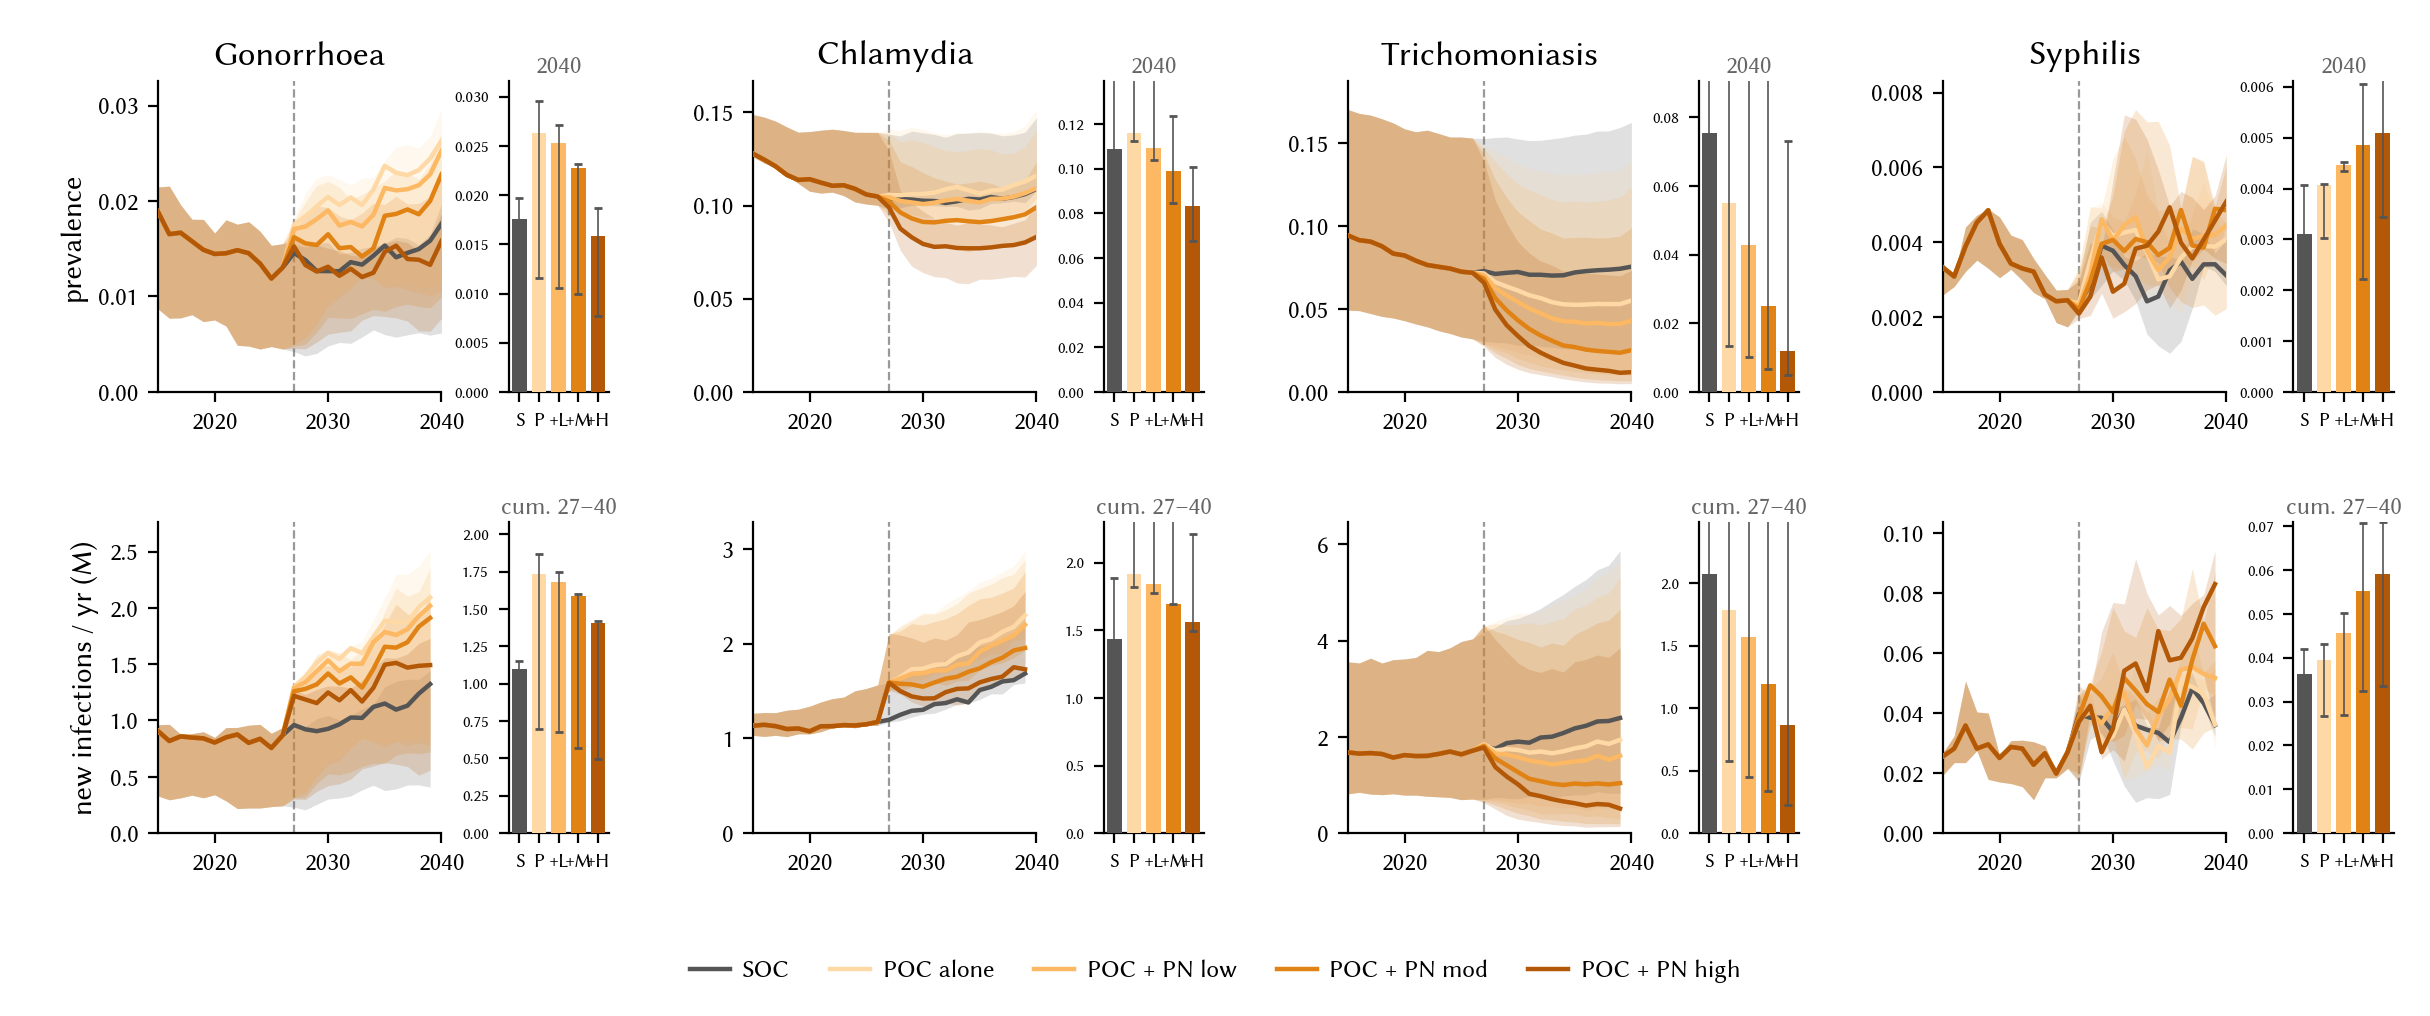
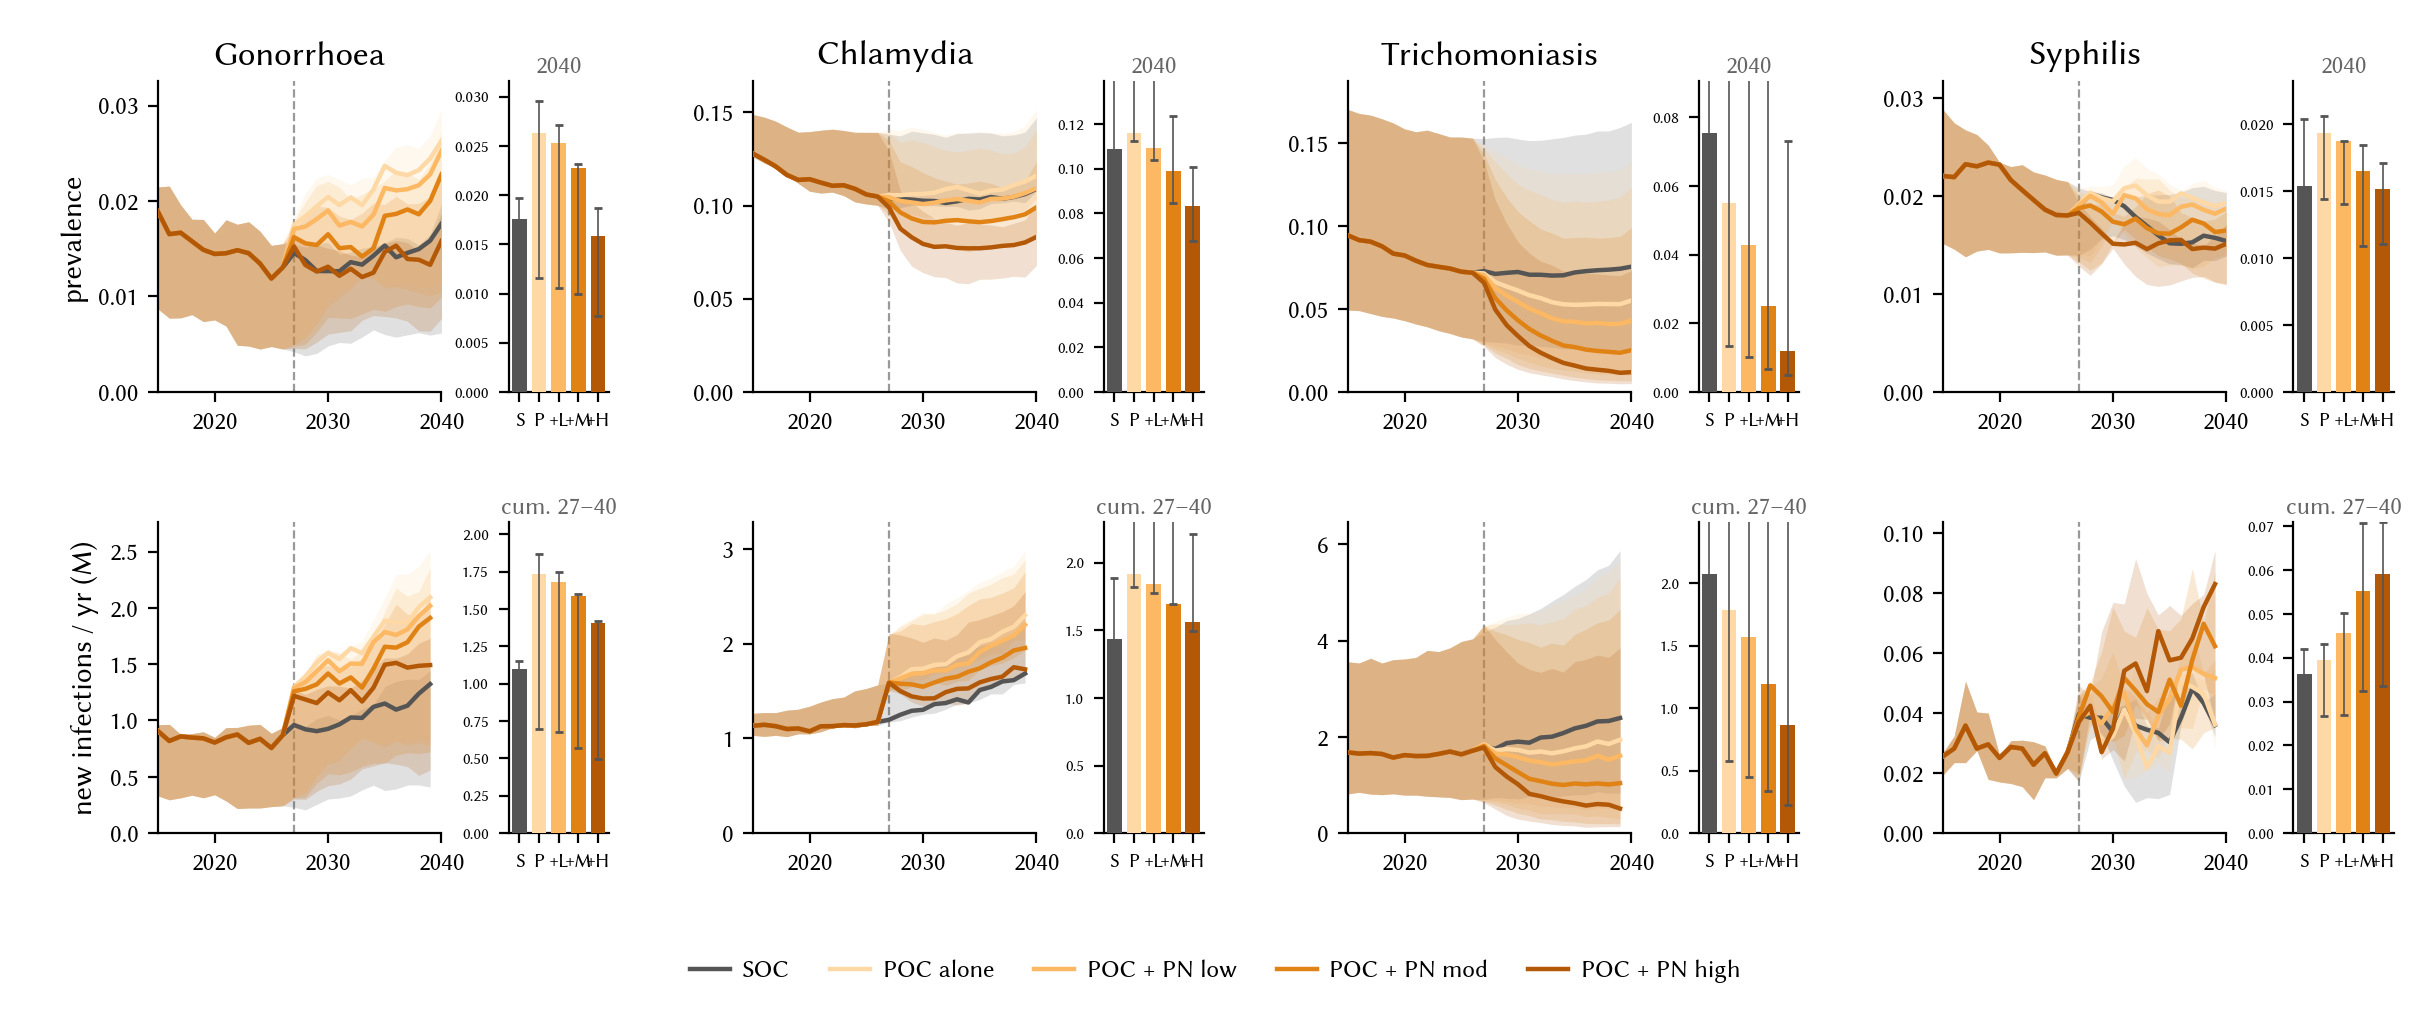
fix: syphilis prevalence panels use total prevalence, not infectious-only slice
plot_slide6.py (and slides 9-11 via build_ts_grid_figure) plotted
sexually_transmissible_prevalence / syph_sti_prev_end for syphilis instead
of raw prevalence, so slide panels showed ~0.2-0.4% while fig_epi_overview
and the calibration target show ~2%. Same override existed in
dashboard/scripts/export_data.py; fixed there too. Regenerated
fig_slide6/9/10/11.png.

diff --git a/plotting/plot_slide6.py b/plotting/plot_slide6.py
@@ -36,13 +36,8 @@ DISEASES = [('ng', 'Gonorrhoea'), ('ct', 'Chlamydia'),
 YEARS = 2040 - 2027
 INTV = 2027
 
-# Syphilis prevalence uses the WHO "early infectious syphilis" slice
-# (primary + secondary + early latent) rather than raw prevalence, since
-# most syphilis infections settle into non-infectious late latency.
 PREV_RESULT_NAME = {d: 'prevalence' for d, _ in DISEASES}
-PREV_RESULT_NAME['syph'] = 'sexually_transmissible_prevalence'
 PREV_COL = {d: f'{d}_prev_end' for d, _ in DISEASES}
-PREV_COL['syph'] = 'syph_sti_prev_end'
 
 
 def med_iqr(vals):

diff --git a/dashboard/scripts/export_data.py b/dashboard/scripts/export_data.py
@@ -17,11 +17,9 @@ from scenarios import (          # noqa: E402
 
 DISEASES = ['ng', 'ct', 'tv', 'syph']
 PREV_COL = {d: f'{d}_prev_end' for d in DISEASES}
-PREV_COL['syph'] = 'syph_sti_prev_end'
 
 TS_DISEASES = ['ng', 'ct', 'tv', 'syph']
 TS_RESULT_NAME = {d: 'prevalence' for d in TS_DISEASES}
-TS_RESULT_NAME['syph'] = 'sexually_transmissible_prevalence'
 TS_YEAR_START = 2025
 TS_YEAR_END = 2040
 
